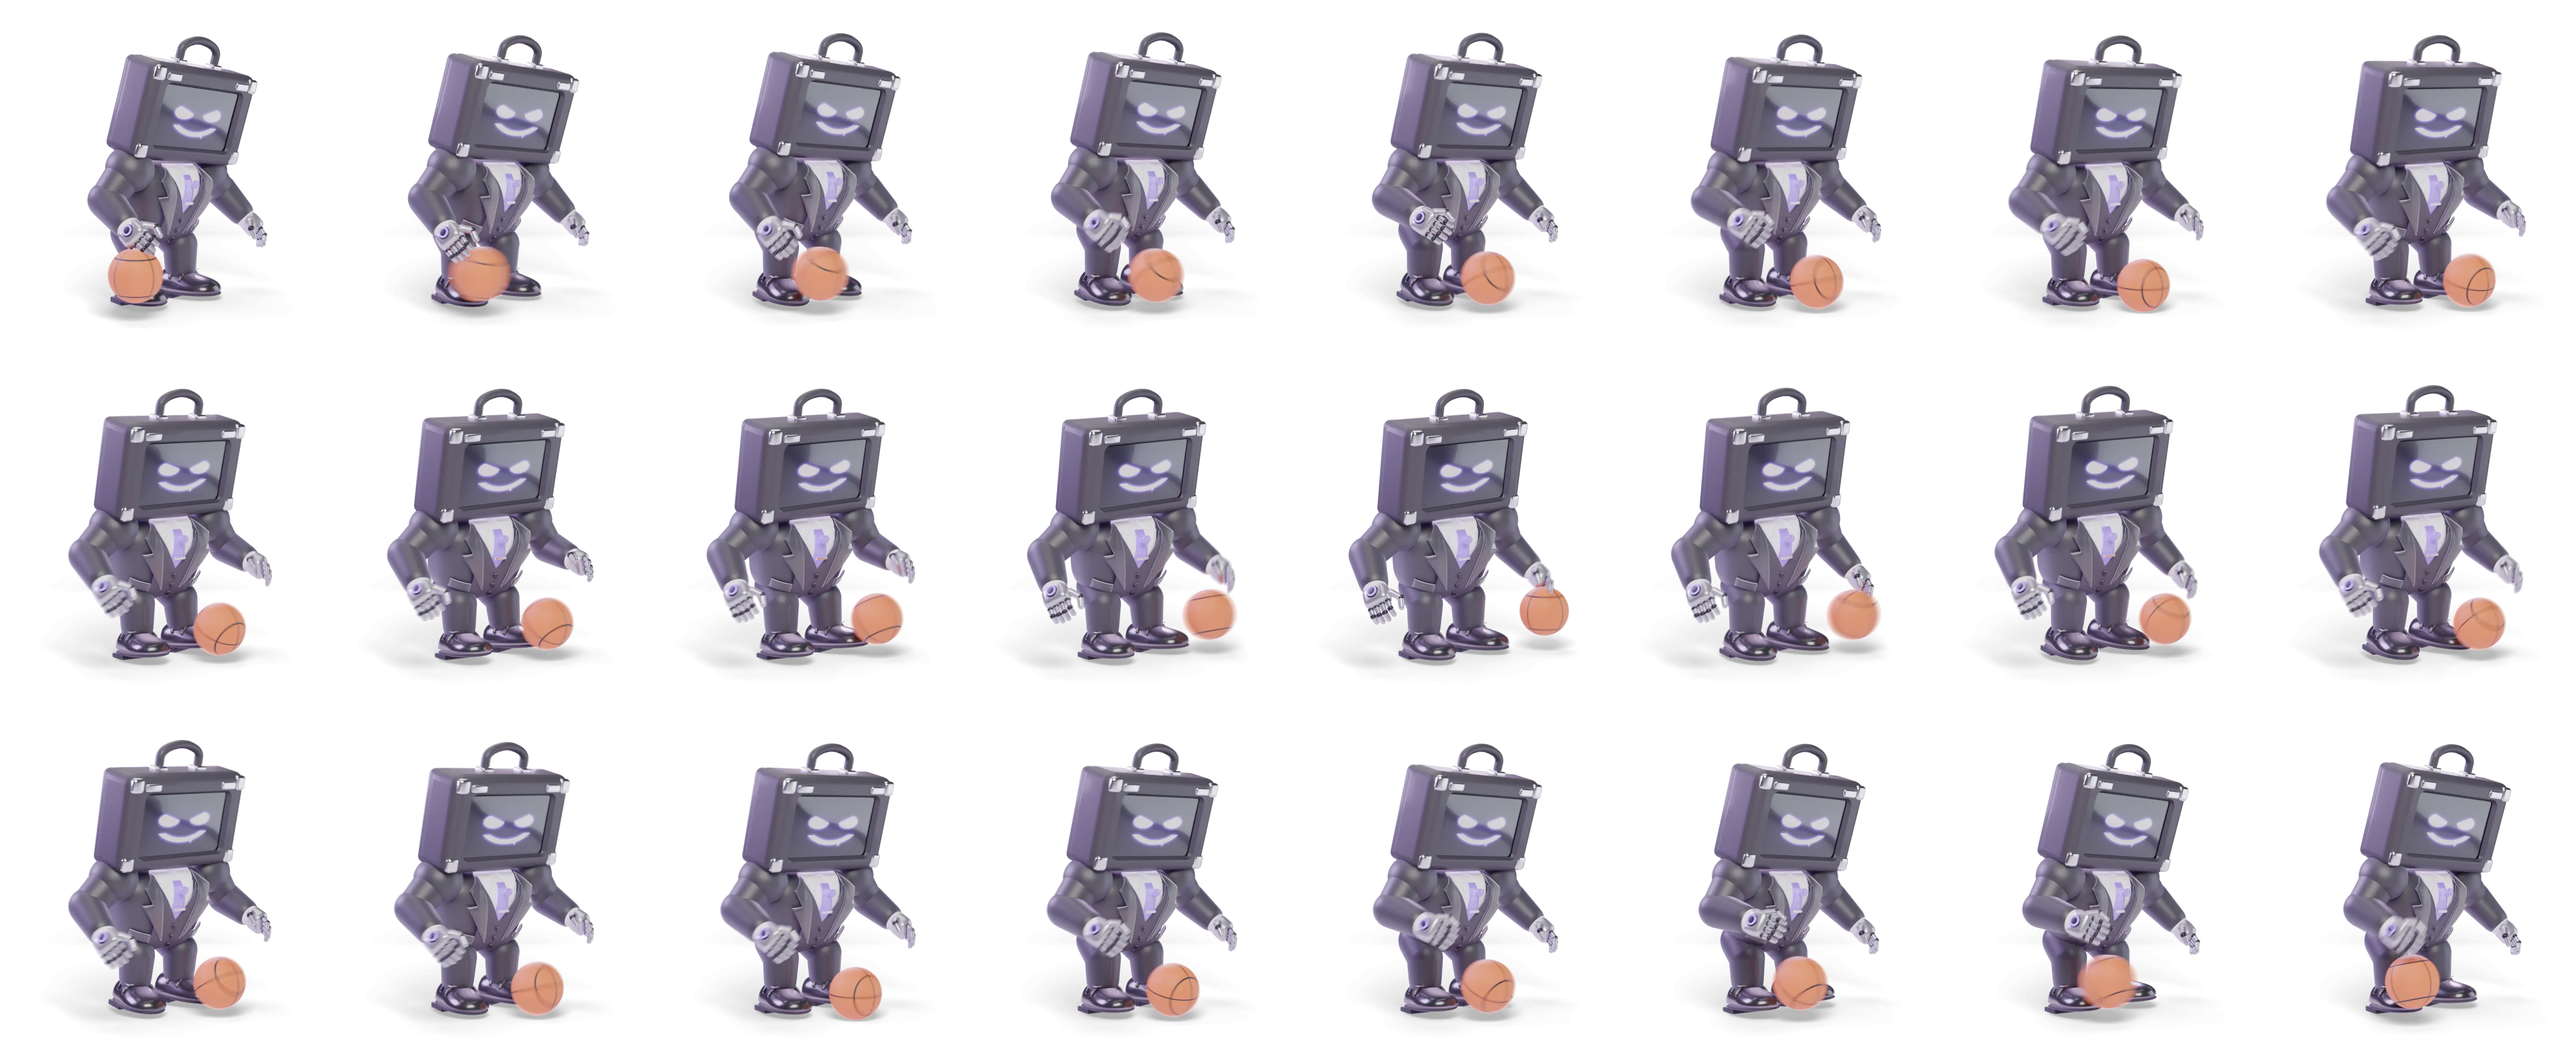
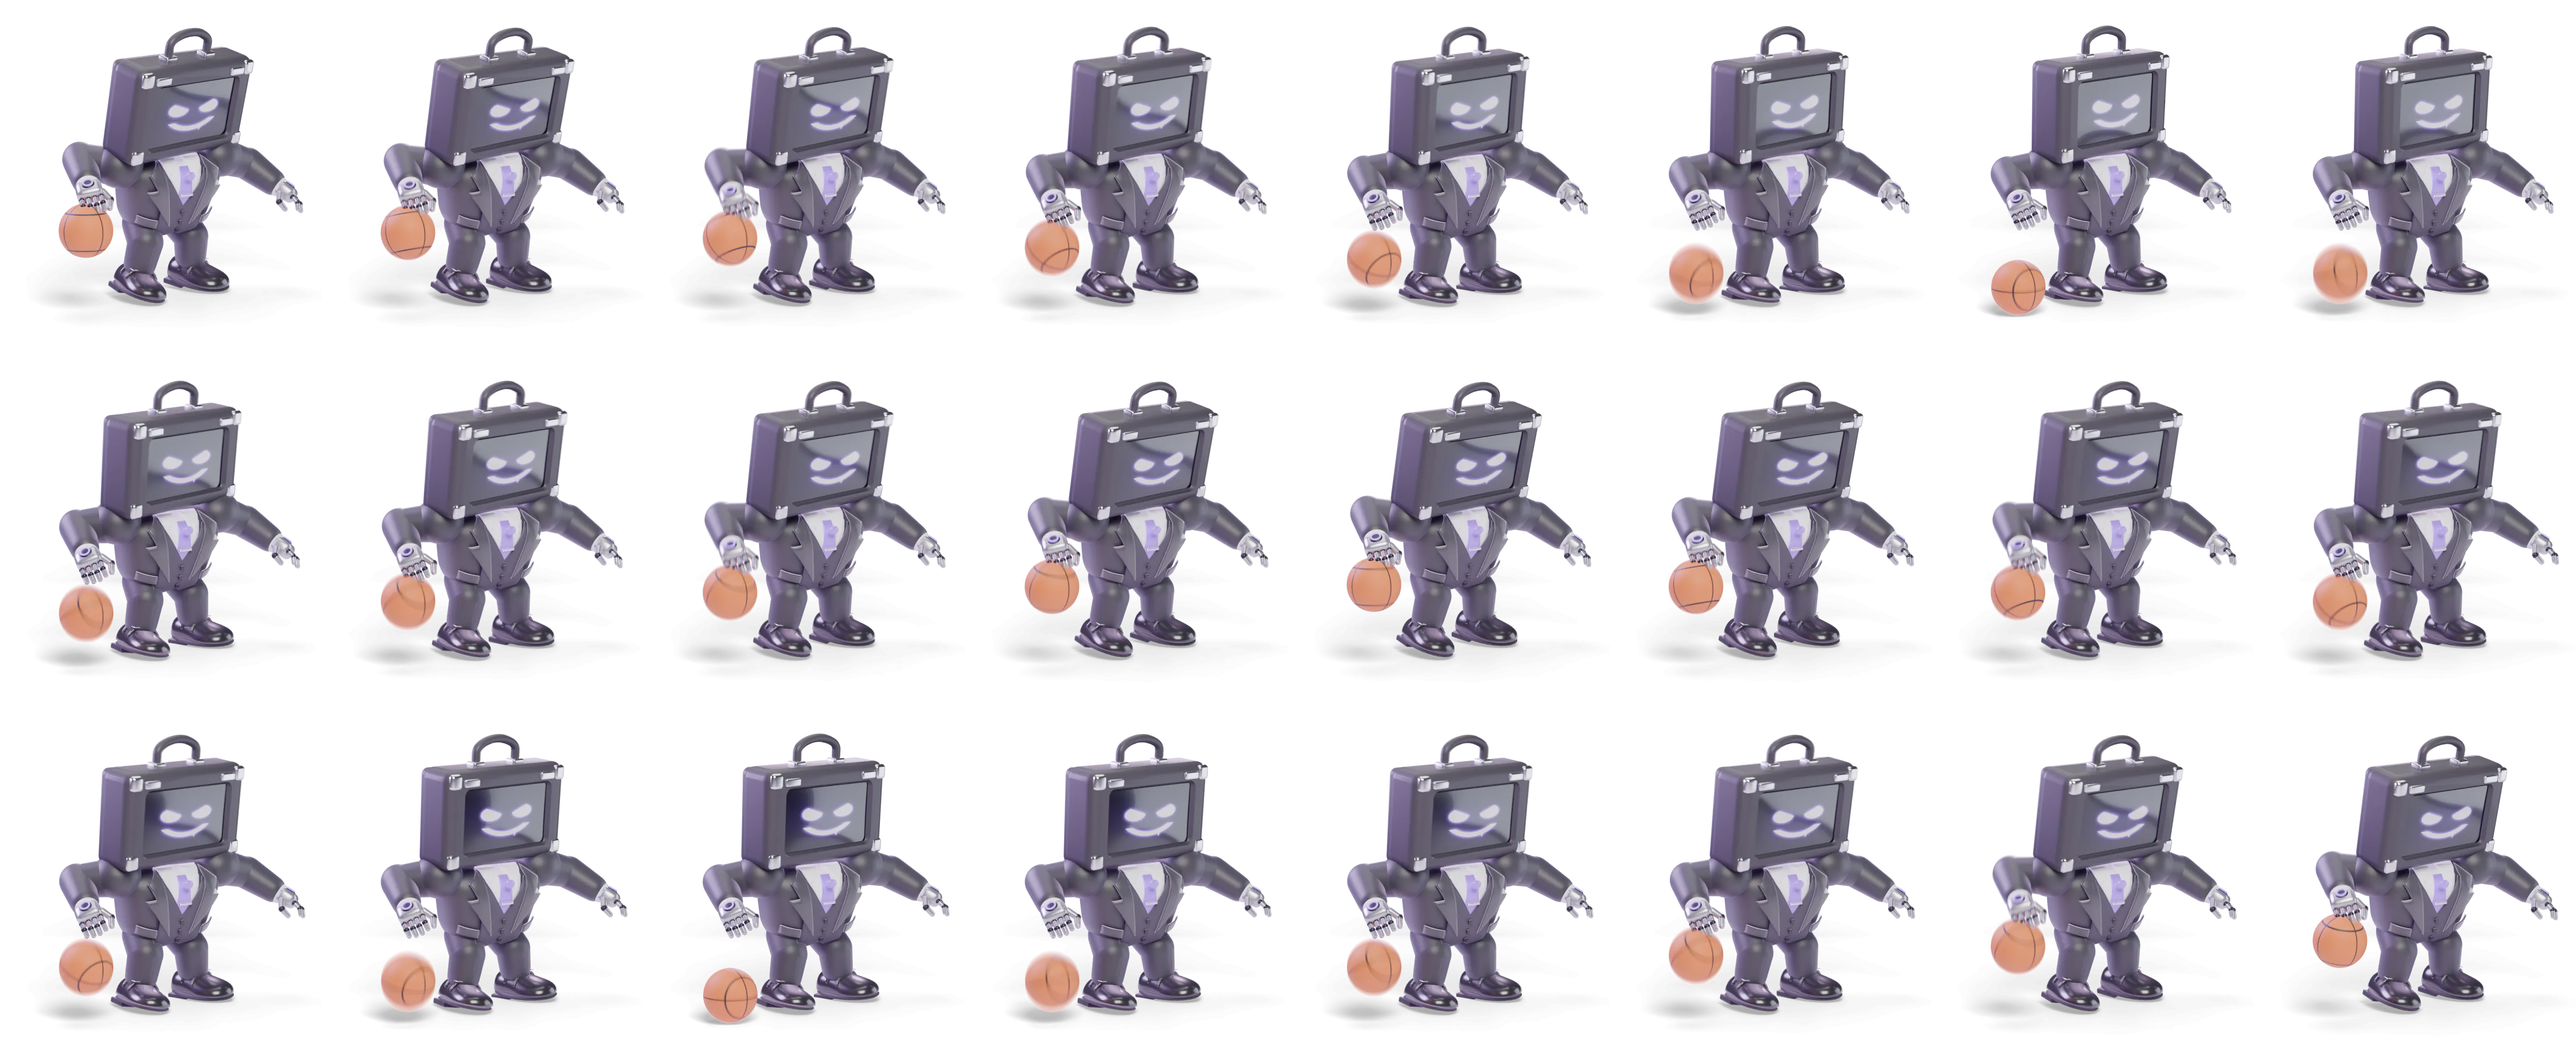
Rework Broadcast's basketball dribble with real hand contact
The crossover had the ball sliding between hands that never touched it. He
now dribbles beside him in a low stance: the ball follows a bounce curve and
his hand is solved onto it each frame, riding it down, letting go and catching
it on the way back up, with the ball clear of his feet.

Changed region(s): [[0.0, 0.0312, 1.0, 0.3125], [0.0, 0.3438, 1.0, 0.625], [0.0, 0.6875, 1.0, 0.9688]]

diff --git a/apps/assistant/styles.css b/apps/assistant/styles.css
@@ -3226,15 +3226,15 @@ dialog h3 {
 	width: min(1000px, 90vw, calc((100vh - 260px) * 100 / 110));
 	aspect-ratio: 100 / 110;
 	margin: 0 auto 8px;
-	background: url("./broadcast-run.webp?v=scenes") 0 0 / calc(var(--cols) * 100%) calc(var(--rows) * 100%) no-repeat;
+	background: url("./broadcast-run.webp?v=scenes2") 0 0 / calc(var(--cols) * 100%) calc(var(--rows) * 100%) no-repeat;
 	animation:
 		broadcast-frame-x calc(var(--loop) / var(--rows)) steps(var(--cols), jump-none) infinite,
 		broadcast-frame-y var(--loop) steps(var(--rows), jump-none) infinite;
 }
-[data-loader="laptop"] .broadcast-run { background-image: url("./broadcast-laptop.webp?v=scenes"); --rows: 6; --loop: 2s; }
-[data-loader="meditate"] .broadcast-run { background-image: url("./broadcast-meditate.webp?v=scenes"); --rows: 5; --loop: 2s; }
-[data-loader="soccer"] .broadcast-run { background-image: url("./broadcast-soccer.webp?v=scenes"); --rows: 3; --loop: 1s; }
-[data-loader="basketball"] .broadcast-run { background-image: url("./broadcast-basketball.webp?v=scenes"); --rows: 3; --loop: 1s; }
+[data-loader="laptop"] .broadcast-run { background-image: url("./broadcast-laptop.webp?v=scenes2"); --rows: 6; --loop: 2s; }
+[data-loader="meditate"] .broadcast-run { background-image: url("./broadcast-meditate.webp?v=scenes2"); --rows: 5; --loop: 2s; }
+[data-loader="soccer"] .broadcast-run { background-image: url("./broadcast-soccer.webp?v=scenes2"); --rows: 3; --loop: 1s; }
+[data-loader="basketball"] .broadcast-run { background-image: url("./broadcast-basketball.webp?v=scenes2"); --rows: 3; --loop: 1s; }
 @keyframes broadcast-frame-x {
 	to { background-position-x: 100%; }
 }

diff --git a/apps/assistant/index.html b/apps/assistant/index.html
@@ -36,7 +36,7 @@
 				document.documentElement.dataset.loader = scene;
 				link.rel = "preload";
 				link.as = "image";
-				link.href = "./broadcast-" + scene + ".webp?v=scenes";
+				link.href = "./broadcast-" + scene + ".webp?v=scenes2";
 				link.setAttribute("fetchpriority", "high");
 				document.head.appendChild(link);
 			})();
@@ -44,7 +44,7 @@
 	<link rel="preconnect" href="https://fonts.googleapis.com" />
 	<link rel="preconnect" href="https://fonts.gstatic.com" crossorigin />
 	<link rel="stylesheet" href="https://fonts.googleapis.com/css2?family=Inter:wght@400;500;600;700;800&display=swap" />
-	<link rel="stylesheet" href="./styles.css?v=20261004-scenes" />
+	<link rel="stylesheet" href="./styles.css?v=20261004-scenes2" />
 		<title>Command Centre</title>
 	<link rel="stylesheet" href="../../reading-estimates.css?v=20261002-class-anchored-tasks">
 </head>
@@ -143,6 +143,6 @@
 		<script src="./remember.js"></script>
 		<script defer src="./notion-sync.js?v=20261002-class-anchored-tasks"></script>
 		<script src="../../widget-icons.js?v=20261001-duotone-b"></script>
-		<script type="module" src="./app.js?v=20261004-scenes"></script>
+		<script type="module" src="./app.js?v=20261004-scenes2"></script>
 	</body>
 </html>

diff --git a/apps/assistant/app.js b/apps/assistant/app.js
@@ -61,7 +61,7 @@ import { suggestLastPage, planPageSplit, planTimeSplit, defaultRemaining } from 
 const WORKER = "https://widget-sync.lordgrape-widgets.workers.dev";
 const SESSION_KEY = "command-centre-access-v1",
 	THEME_KEY = "command-centre-theme-v1",
-	REVISION = "20261004-scenes";
+	REVISION = "20261004-scenes2";
 const $ = (s) => document.querySelector(s),
 	root = new URL("../../", location.href);
 const paths = {

diff --git a/apps/assistant/sw.js b/apps/assistant/sw.js
@@ -1,4 +1,4 @@
-const CACHE = "command-centre-20261004-scenes";
+const CACHE = "command-centre-20261004-scenes2";
 const SHELL = [
 	"../../widget-platform.js",
 	"../../reading-estimates.js",

diff --git a/tools/broadcast/scenes.py b/tools/broadcast/scenes.py
@@ -562,46 +562,76 @@ def soccer_scene():
                 camera=((-8.5, -9.5, 2.9), (0, -0.2, 1.75), 100))
 
 
+def solve_arm(pose, side, target, guess):
+    """Find shoulder (x, y) and elbow (x) angles that put the palm on `target` (coordinate descent)."""
+    params, step = list(guess), 0.25
+    limits = ((-2.2, 0.8), (-1.6, 1.6), (-2.2, 0.0))
+
+    def cost(q):
+        trial = dict(pose)
+        trial[f"Shoulder{side}"] = P(q[0], q[1], 0)
+        trial[f"Elbow{side}"] = P(q[2])
+        apply_pose(trial)
+        # A little pull toward a relaxed elbow keeps the arm natural when several poses reach.
+        return (where(f"Palm{side}") - target).length_squared + 0.0004 * (q[2] + 0.7) ** 2
+
+    best = cost(params)
+    while step > 0.002:
+        moved = False
+        for i in range(3):
+            for d in (step, -step):
+                q = list(params)
+                q[i] = min(limits[i][1], max(limits[i][0], q[i] + d))
+                c = cost(q)
+                if c < best:
+                    params, best, moved = q, c, True
+        if not moved:
+            step /= 2
+    return params
+
+
 def basketball_scene():
     L = 24
+    BOUNCE = 12                          # two dribbles per loop
     R = 0.32
     ball = basketball(R)
+    spot = Vector((-1.5, -0.38, 0))     # where the ball hits the floor, beside the near foot
+    top, low = 1.0, 0.82                 # ball centre at the top of the dribble, and where the hand lets go
+
+    def ball_z(f):
+        # |cos| is a dribble: rounded at the hand, a sharp bounce at the floor.
+        return R + (top - R) * abs(math.cos(math.pi * f / BOUNCE))
+
+    def body(f):
+        t = f / L
+        push = math.cos(TAU * f / BOUNCE)      # 1 at the top of each dribble
+        return grounded({
+            "Body": P(0.34 + 0.04 * push, -0.05, -0.16),
+            "Neck": P(-0.08 + 0.05 * push, 0, 0.18 + 0.04 * math.sin(TAU * t)),
+            "HipL": P(-0.7, 0.16, -0.18), "HipR": P(-0.7, -0.16, 0.18),
+            "KneeL": P(0.78 + 0.08 * push), "KneeR": P(0.78 + 0.08 * push),
+            "ShoulderR": P(-0.35, -1.05 + 0.06 * math.sin(TAU * t), 0.1),
+            "ElbowR": P(-0.55 - 0.1 * math.sin(TAU * t)),
+        })
+
+    # The hand rides the ball down to `low`, lets go, waits there, and meets it on the way back up.
+    arms, guess = {}, (-0.6, 0.4, -0.5)
+    for f in range(L):
+        pose = body(f)
+        hand = max(ball_z(f), low) + R + 0.06
+        guess = arms[f] = solve_arm(pose, "L", Vector((spot.x, spot.y, hand)), guess)
 
     def pose(f):
-        t = f / L
-        w = 0.5 + 0.5 * math.cos(TAU * t)          # 1: the near hand (L) has the ball, 0: the far hand
-        push_l = bump(f, 1, 4, L)
-        push_r = bump(f, 13, 4, L)
-        shift = math.cos(TAU * t)
-        p = {
-            "Body": P(0.38, 0.05 * shift, 0.14 * shift),
-            "Neck": P(-0.12, 0, -0.1 * shift),
-            "HipL": P(-0.85, 0, -0.22), "HipR": P(-0.85, 0, 0.22),
-            "KneeL": P(0.85 + 0.1 * math.sin(2 * TAU * t)), "KneeR": P(0.85 + 0.1 * math.sin(2 * TAU * t)),
-            "ShoulderL": P(-0.3 - 0.25 * w + 0.3 * push_l, 0.35 + 0.4 * (1 - w), -0.15 * w),
-            "ElbowL": P(-0.5 - 0.55 * w + 0.35 * push_l),
-            "ShoulderR": P(-0.3 - 0.25 * (1 - w) + 0.3 * push_r, -0.35 - 0.4 * w, 0.15 * (1 - w)),
-            "ElbowR": P(-0.5 - 0.55 * (1 - w) + 0.35 * push_r),
-        }
-        return grounded(p, 0.02 * math.sin(2 * TAU * t))
-
-    contacts = {}
-    for f, side in ((0, "L"), (12, "R")):
-        apply_pose(pose(f))
-        contacts[f] = where(f"Palm{side}") - Vector((0, 0, R + 0.05))
+        p = body(f)
+        q = arms[f % L]
+        p["ShoulderL"], p["ElbowL"] = P(q[0], q[1], 0), P(q[2])
+        return p
 
     def props(f):
-        a, b = (0, 12) if f < 12 else (12, 24)
-        u = (f - a) / 12
-        p0, p1 = contacts[a % 24], contacts[b % 24]
-        flat = p0.lerp(p1, u)
-        mid = Vector(((p0.x + p1.x) / 2 * 0.2, min(p0.y, p1.y) - 0.35, R))
-        flat = flat.lerp(mid, math.sin(math.pi * u) * 0.6)
-        z = R + (p0.z + (p1.z - p0.z) * u - R) * abs(math.cos(math.pi * u))
-        key_obj(ball, f, loc=(flat.x, flat.y, z), rot=(TAU * f / L, 0, 0))
+        key_obj(ball, f, loc=(spot.x, spot.y, ball_z(f)), rot=(-TAU * f / BOUNCE * 0.5, 0, 0))
 
     return dict(length=L, fps=24, face="smug", pose=pose, props=props,
-                camera=((-8.5, -9.5, 2.5), (0, -0.25, 1.6), 100))
+                camera=((-8.5, -9.5, 2.6), (-0.2, -0.25, 1.55), 100))
 
 
 def render_frame(path, glows):

diff --git a/tools/broadcast/README.md b/tools/broadcast/README.md
@@ -24,7 +24,7 @@ Use `PREVIEW=1` to also render still frames of each clip into `<outdir>`. For a 
 | `laptop` | 48 | 2 s | Typing at a desk, then slamming Enter and leaning back |
 | `meditate` | 40 | 2 s | Floating cross-legged with orbiting lights and a rune ring |
 | `soccer` | 24 | 1 s | Juggling a football from foot to foot |
-| `basketball` | 24 | 1 s | Crossover dribbling in a low stance |
+| `basketball` | 24 | 1 s | Dribbling beside him in a low stance; the hand is solved onto the ball each frame |
 
 Every scene is a function of the frame keyed on every frame, so loops are seamless and balls meet the foot or hand they come from. Glows are rendered in a second pass with everything else held out, because Cycles shows the shadow catcher through transparent surfaces. `SCENES` picks scenes (comma separated), `SCENE_W` the frame width (height is 1.1x), `SCENE_SAMPLES` the samples, `SCENE_FRAMES=0,12` renders only some frames and `SCENE_CAMERA=x,y,z` moves the camera for a quick look.
 
